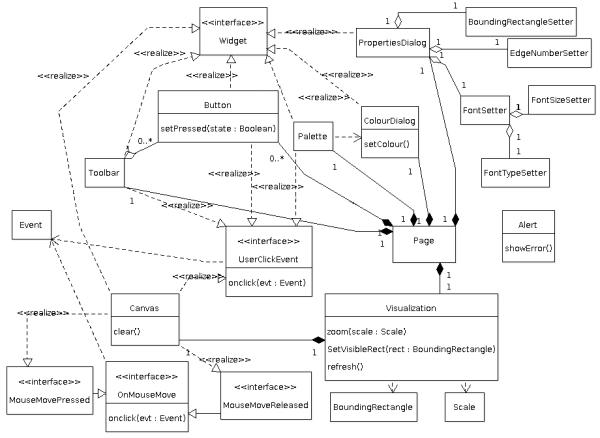
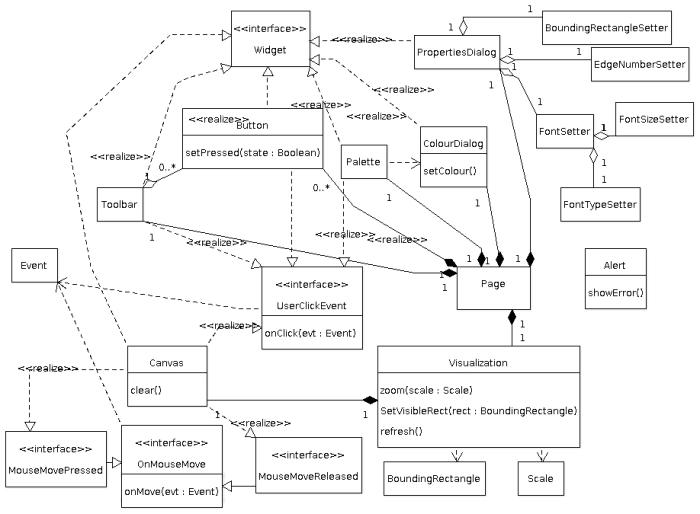
ST: sistemate immagini

diff --git a/doc/SpecificaTecnica/SpecificaTecnica.tex b/doc/SpecificaTecnica/SpecificaTecnica.tex
@@ -403,7 +403,7 @@ Utilizza un generico evento, istanza della classe \textit{Event}, per la gestion
 \`E implementata dalle classi \textit{Toolbar}, \textit{Palette}, \textit{Canvas}, e \textit{Button}. 
 \subsubsezione{Attivit\`a svolte e dati trattati}
 \begin{elencopuntato}[\normindent]
-\item[-]  \textit{onclick} gestisce la pressione del pulsante del mouse su un oggetto che implementa l'interfaccia.
+\item[-]  \textit{onClick} gestisce la pressione del pulsante del mouse su un oggetto che implementa l'interfaccia.
 \end{elencopuntato}
 
 \subsezione{Canvas}
@@ -427,7 +427,7 @@ Utilizza un'istanza della classe \textit{Event}.
 \` E esteso dalle interfacce \textit{MouseMovePressed} e \textit{MouseMoveReleased}, per la gestione pi\` u specifica della pressione del pulsante sinistro del mouse.
 \subsubsezione{Attivit\`a svolte e dati trattati}
 \begin{elencopuntato}[\normindent]
-\item[-]  \textit{onclick} gestisce il generico click del mouse.
+\item[-]  \textit{onMove} gestisce il generico movimento del mouse.
 \end{elencopuntato}
 
 \subsezione{MouseMovePressed}
